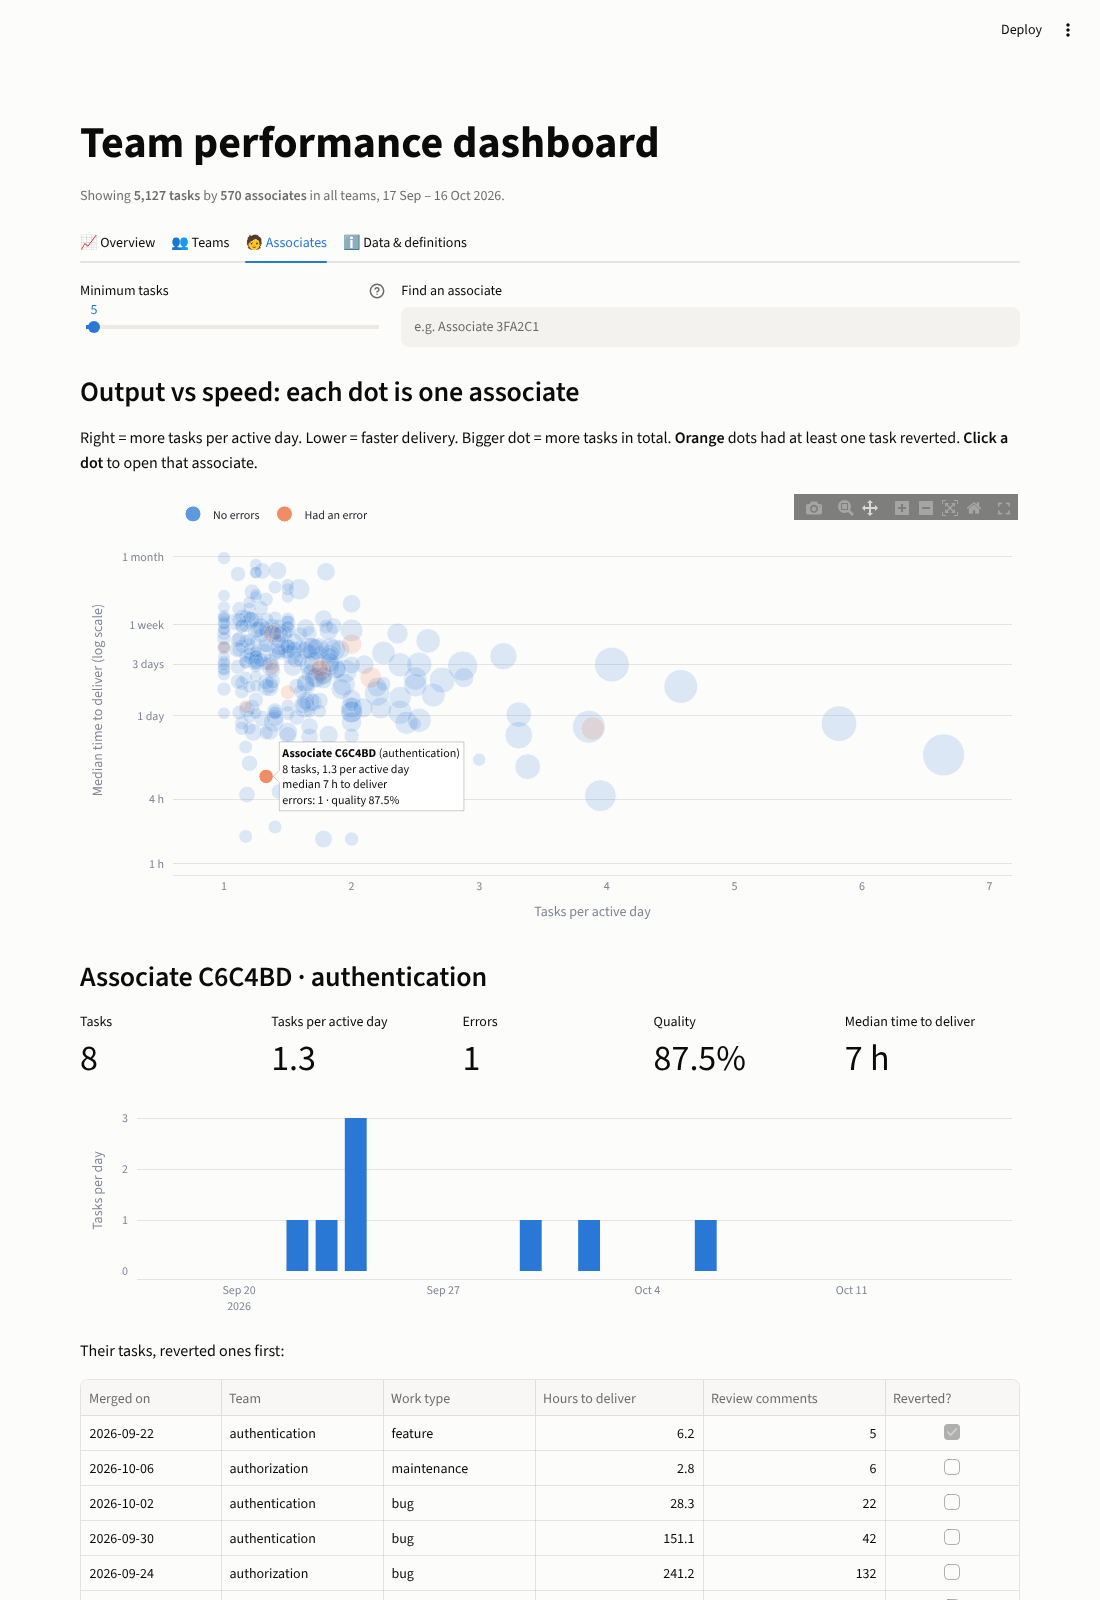
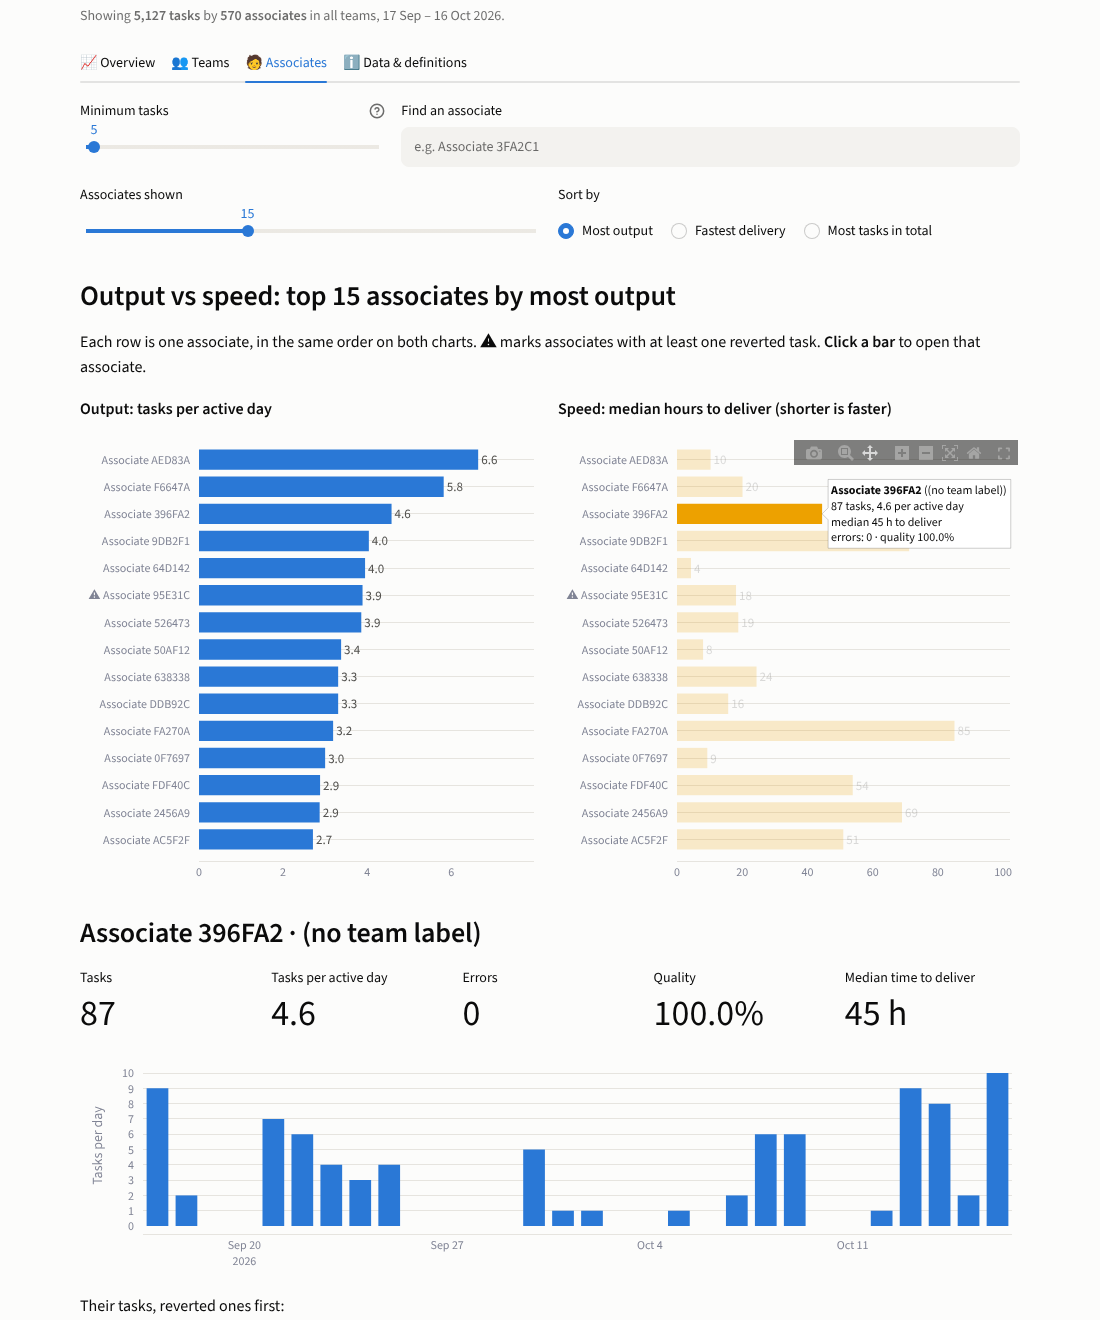
Show associates' output vs speed as side-by-side bar charts
Replace the scatter plot with two horizontal bar charts (tasks per active
day, median time to deliver) sharing one associate order, with a top-N
slider, sort options and click-to-open profiles.

Claude-Session: https://claude.ai/code/session_01NNvFoJLTh2EBHsCgVdgN44

diff --git a/dashboard/app.py b/dashboard/app.py
@@ -347,29 +347,52 @@ with tab_people:
     if search:
         p = p[p.associate.str.contains(search.strip(), case=False)]
 
-    st.subheader("Output vs speed: each dot is one associate")
-    st.markdown("Right = more tasks per active day. Lower = faster delivery. Bigger dot = more tasks in total. "
-                "**Orange** dots had at least one task reverted. **Click a dot** to open that associate.")
-    clean, err = p[p.errors == 0], p[p.errors > 0]
-    fig = go.Figure()
-    for d, name, color in [(clean, "No errors", METRICS["Tasks completed"]["color"]),
-                           (err, "Had an error", METRICS["Errors"]["color"])]:
-        fig.add_scatter(
-            x=d.tasks_per_active_day, y=d.median_hours, mode="markers", name=name,
-            marker=dict(color=color, size=(d.tasks ** 0.5) * 3 + 6, opacity=0.75,
-                        line=dict(color="white", width=1)),
-            customdata=d[["associate", "main_team", "tasks", "errors", "quality_pct"]],
-            hovertemplate="<b>%{customdata[0]}</b> (%{customdata[1]})<br>%{customdata[2]} tasks, "
-                          "%{x:.1f} per active day<br>median %{y:.0f} h to deliver<br>"
-                          "errors: %{customdata[3]} · quality %{customdata[4]:.1f}%<extra></extra>")
-    fig.update_xaxes(title="Tasks per active day")
-    ticks = {1: "1 h", 4: "4 h", 24: "1 day", 72: "3 days", 168: "1 week", 720: "1 month"}
-    fig.update_yaxes(title="Median time to deliver (log scale)", type="log",
-                     tickvals=list(ticks), ticktext=list(ticks.values()))
-    ev = st.plotly_chart(style(fig, 440), width="stretch", on_select="rerun",
-                         selection_mode="points", key="people_chart")
+    hover = ("<b>%{customdata[0]}</b> (%{customdata[1]})<br>%{customdata[2]} tasks, "
+             "%{customdata[5]:.1f} per active day<br>median %{customdata[6]:.0f} h to deliver<br>"
+             "errors: %{customdata[3]} · quality %{customdata[4]:.1f}%<extra></extra>")
+    hover_cols = ["associate", "main_team", "tasks", "errors", "quality_pct", "tasks_per_active_day",
+                  "median_hours"]
+    events = []
 
-    chosen = ev.selection.points[0]["customdata"][0] if ev and ev.selection.points else None
+    if p.empty:
+        st.info("No associates match. Lower the minimum tasks or clear the search.")
+        st.stop()
+    b1, b2 = st.columns(2)
+    top_n = b1.slider("Associates shown", 1, max(2, min(40, len(p))), min(15, len(p)), key="bars_n")
+    order = b2.radio("Sort by", ["Most output", "Fastest delivery", "Most tasks in total"],
+                     horizontal=True, key="bars_sort")
+    if order == "Most output":
+        top = p.nlargest(top_n, "tasks_per_active_day")
+    elif order == "Fastest delivery":
+        top = p.nsmallest(top_n, "median_hours")
+    else:
+        top = p.nlargest(top_n, "tasks")
+    # Same associates in the same order on both charts, so a row reads straight across.
+    labels = [f"⚠ {a}" if e else a for a, e in zip(top.associate, top.errors)]
+    st.subheader(f"Output vs speed: top {len(top)} associates by {order.lower()}")
+    st.markdown("Each row is one associate, in the same order on both charts. **⚠** marks associates "
+                "with at least one reverted task. **Click a bar** to open that associate.")
+    height = max(300, 26 * len(top) + 60)
+    left, right = st.columns(2)
+    for col, x, name, metric, fmt, key in [
+        (left, "tasks_per_active_day", "Output: tasks per active day", "Tasks completed", ".1f",
+         "bars_output"),
+        (right, "median_hours", "Speed: median hours to deliver (shorter is faster)", "Hours to deliver",
+         ".0f", "bars_speed"),
+    ]:
+        fig = go.Figure(go.Bar(
+            y=labels, x=top[x], orientation="h", marker_color=METRICS[metric]["color"],
+            text=top[x].map(lambda v: f"{v:{fmt}}"), textposition="outside", cliponaxis=False,
+            customdata=top[hover_cols], hovertemplate=hover))
+        fig.update_yaxes(autorange="reversed", title=None, type="category")
+        fig.update_xaxes(title=None, range=[0, top[x].max() * 1.2])
+        with col:
+            st.markdown(f"**{name}**")
+            events.append(st.plotly_chart(style(fig, height), width="stretch", on_select="rerun",
+                                          selection_mode="points", key=key))
+
+    picked = [e.selection.points[0] for e in events if e and e.selection.points]
+    chosen = picked[0]["customdata"][0] if picked else None
     if not chosen and search and len(p) == 1:
         chosen = p.associate.iloc[0]
     if chosen:

diff --git a/README.md b/README.md
@@ -115,8 +115,8 @@ Built with Streamlit + Plotly and organised in four tabs. Every chart responds t
   * Compare teams by any metric, and choose how many to show.
   * **Click a team** to see its daily trend and its associates.
 * **Associates**
-  * A scatter plot of output against speed, with people who had a revert highlighted.
-  * **Click a dot** (or search an ID) to open that person's profile: daily activity and task list.
+  * Output vs speed as two side-by-side bar charts, one row per associate in the same order on both: tasks per active day, and median time to deliver. Choose how many to show and sort by most output, fastest delivery or most tasks. ⚠ marks people who had a revert.
+  * **Click a bar** (or search an ID) to open that person's profile: daily activity and task list.
 * **Data & definitions**: what each metric means and can't tell you, the data-quality checks and the run log.
 
 Teams, associates and filtered tasks can all be downloaded as CSV.
